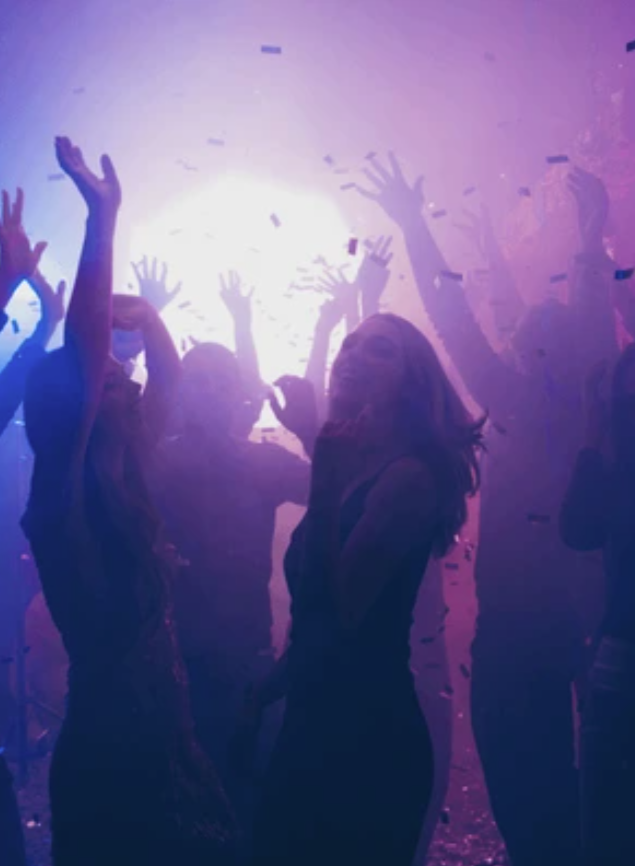
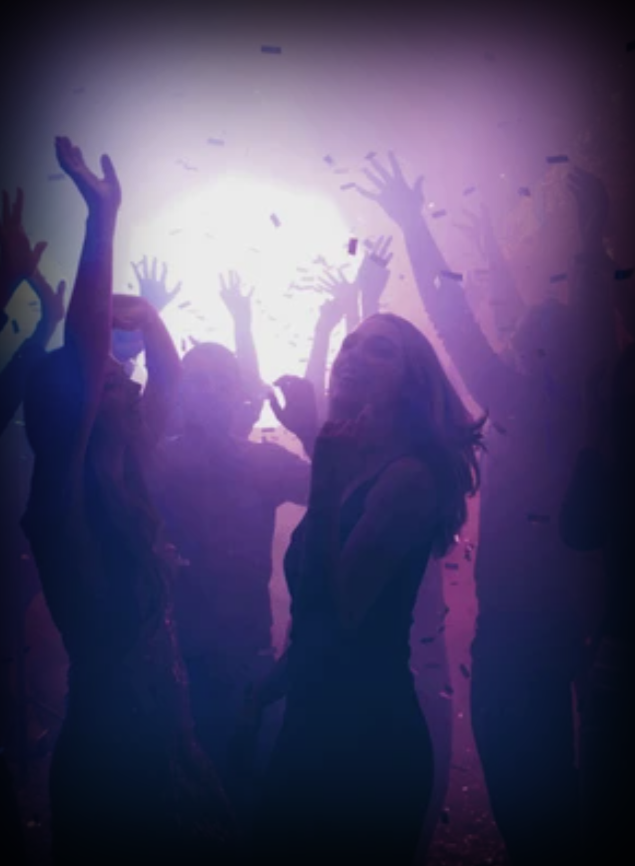
Added Homepage and did finishing touches

diff --git a/src/components/HomePage.tsx b/src/components/HomePage.tsx
@@ -1,4 +1,6 @@
-import { useEffect } from 'react';
+import { Button } from '@mantine/core';
+import { useEffect, useState } from 'react';
+import { NavLink } from 'react-router-dom';
 
 export type HomePageProps = {
   switchInterval: number;
@@ -6,21 +8,38 @@ export type HomePageProps = {
 
 export function HomePage(props: Readonly<HomePageProps>) {
   const { switchInterval } = props;
+  const [currentImageIndex, setCurrentImageIndex] = useState(0);
+
+  const images = ['/partify_home_1.png', '/partify_home_2.png', '/partify_home_3.png'];
 
   useEffect(() => {
     const interval = setInterval(() => {
-      // change picture
+      setCurrentImageIndex((prevIndex) => (prevIndex + 1) % images.length);
     }, switchInterval);
 
     return () => clearInterval(interval);
-  });
+  }, [switchInterval, images.length]);
 
   return (
     <>
-      <div className="w-1/3 bg-[#181818] border-r border-[#404040]"></div>
+      <div className="w-1/3 bg-[#0a0a0a] border-r border-[#404040] relative overflow-hidden">
+        {images.map((image, index) => (
+          <div
+            key={image}
+            className={`absolute inset-0 transition-opacity duration-1000 ease-in-out ${index === currentImageIndex ? 'opacity-100' : 'opacity-0'}`}
+          >
+            <img src={image} alt={`Partify showcase ${index + 1}`} className="w-full h-full object-cover" />
+          </div>
+        ))}
+      </div>
       <div className="flex flex-col gap-4 justify-center items-center w-2/3">
-        <h2 className="text-4xl font-medium text-[#ffffff]">Welcome to Partify!</h2>
-        <p className="text-[#b3b3b3]">Please login to Spotify to see content.</p>
+        <h2 className="text-6xl font-medium text-[#ffffff]">Welcome to Partify!</h2>
+        <p className="text-[#b3b3b3] text-xl">Please login to Spotify to see content.</p>
+        <Button variant="gradient" gradient={{ from: '#1DB954', to: '#169c46', deg: 155 }} radius="xl" style={{ padding: '0' }} size="xl">
+          <NavLink to="/login" className="h-full flex items-center justify-center px-5 w-36">
+            Login
+          </NavLink>
+        </Button>
       </div>
     </>
   );

diff --git a/src/pages/Login.tsx b/src/pages/Login.tsx
@@ -1,11 +1,7 @@
 import { Button } from '@mantine/core';
 import * as Helper from '../lib/helper';
 
-export type LoginProps = {};
-
-export function Login(props: LoginProps) {
-  const {} = props;
-
+export function Login() {
   const authEndpoint = 'https://accounts.spotify.com/authorize';
   const clientID = import.meta.env.VITE_SPOTIFY_CLIENT_ID;
   const codeChallenge = Helper.generateCodeChallenge(Helper.generateCodeVerifier());
